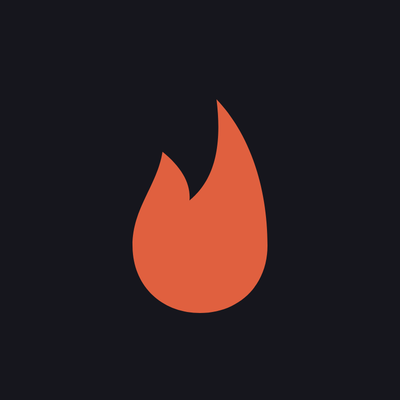
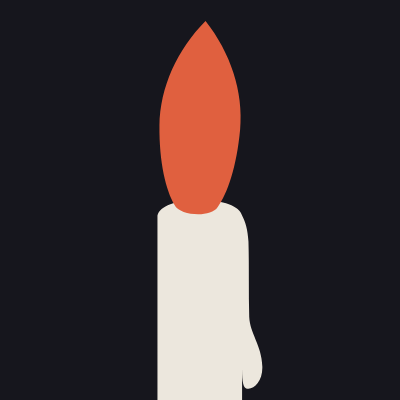
site update 2026-10-20 15:43
Claude-Session: https://claude.ai/code/session_019xwSd8AaEPZGR6L1pyav7d

Changed region(s): [[0.33, 0.06, 0.69, 1.0]]

diff --git a/index.html b/index.html
@@ -37,7 +37,8 @@ header{display:flex;align-items:center;justify-content:space-between;flex-wrap:w
 .word{display:inline-flex;align-items:baseline}
 .word .i{position:relative;display:inline-block}
 .word .i i{position:absolute;left:50%;border-radius:50%;background:var(--core);transform:translateX(-50%)}
-.word .i svg.fl{position:absolute;left:50%;top:.047em;width:.14em;height:.21em;transform:translateX(calc(-50% + .014em));overflow:visible}
+.word .c{position:relative;display:inline-block;width:.238em;height:.87em}
+.word .c svg{position:absolute;left:0;top:0;width:.238em;height:1em;overflow:visible}
 .word{letter-spacing:-.025em}
 nav{display:flex;gap:26px;flex-wrap:wrap;font-family:'IBM Plex Mono';font-size:12px;letter-spacing:2px;text-transform:lowercase}
 .hero{display:flex;flex-wrap:wrap;align-items:center;gap:56px;padding:64px 0 96px}
@@ -86,7 +87,7 @@ footer nav a{color:var(--muted)}footer nav a:hover{color:var(--core)}
 <body>
 <div class="wrap">
 <header>
-  <a class="logo" href="#top" aria-label="fâni home"><span class="word">fân<span class="i">ı<svg class="fl" viewBox="0 0 20 30" aria-hidden="true"><path d="M10 30 C 5 30 1 26.5 1 21 C 1 14 8 11.5 12.2 1.5 C 16.5 6 19 13 19 21 C 19 26.5 15 30 10 30 Z" fill="#E0603F"/></svg></span></span></a>
+  <a class="logo" href="#top" aria-label="fâni home"><span class="word">fân<span class="c"><svg viewBox="0 0 238 1000" aria-hidden="true"><path d="M76.7 870 L76.7 350 C 80 338 100 330 131.7 330 C 163 330 183 338 186.7 350 C 191 358 194 368 195 384 C 196 420 195 450 196 482 C 197 504 212 518 213 546 C 214 566 201 578 192 575 C 187 573 186.7 560 186.7 545 L186.7 870 Z" fill="currentColor"/><g transform="rotate(3 131.7 240)"><path d="M131.7 97 C 166 136 186 186 184 236 C 182 284 172 320 160 338 C 152 352 112 352 104 338 C 92 320 81 284 79 236 C 77 186 97 136 131.7 97 Z" fill="#E0603F"/></g></svg></span></span></a>
   <nav><a href="#story">story</a><a href="#how">how it works</a><a href="#ledger">ledger</a><a href="verdicts.html" style="color:var(--core)">verdicts</a><a href="#roadmap">roadmap</a><a href="#manifesto">manifesto</a><a href="https://x.com/fanidotlive">x</a><a href="https://github.com/fanilive">github</a></nav>
 </header>
 
@@ -103,7 +104,7 @@ footer nav a{color:var(--muted)}footer nav a:hover{color:var(--core)}
     <div class="candle">
       <svg id="candle" width="180" height="288" viewBox="0 0 100 160" role="img" aria-label="fâni candle; the wax level is the wallet">
         <ellipse cx="50" cy="48" rx="30" ry="34" fill="#E0603F" opacity=".08"/>
-        <g id="flame" transform="translate(39,32) scale(1.1)"><path d="M10 30 C 5 30 1 26.5 1 21 C 1 16 4.3 13 5 8.5 C 7.6 10.6 8.8 12.8 8.6 15 C 11 13 13.2 9.5 12.2 1.5 C 16.5 6 19 13 19 21 C 19 26.5 15 30 10 30 Z" fill="#E0603F"/></g>
+        <g id="flame" transform="translate(31.6,16.4) scale(0.14)"><path d="M131.7 97 C 166 136 186 186 184 236 C 182 284 172 320 160 338 C 152 352 112 352 104 338 C 92 320 81 284 79 236 C 77 186 97 136 131.7 97 Z" fill="#E0603F"/></g>
         <line x1="50" y1="66" x2="50" y2="74" stroke="#ECE7DD" stroke-width="2.2" stroke-linecap="round"/>
         <rect x="33" y="74" width="34" height="75" rx="2" fill="none" stroke="#ECE7DD" stroke-width="2.2"/>
         <rect id="wax" x="35" y="96" width="30" height="51" rx="1" fill="#ECE7DD" opacity=".12"/>

diff --git a/verdicts.html b/verdicts.html
@@ -30,7 +30,8 @@ header{display:flex;align-items:center;justify-content:space-between;flex-wrap:w
 .word{display:inline-flex;align-items:baseline}
 .word .i{position:relative;display:inline-block}
 .word .i i{position:absolute;left:50%;border-radius:50%;background:var(--core);transform:translateX(-50%)}
-.word .i svg.fl{position:absolute;left:50%;top:.047em;width:.14em;height:.21em;transform:translateX(calc(-50% + .014em));overflow:visible}
+.word .c{position:relative;display:inline-block;width:.238em;height:.87em}
+.word .c svg{position:absolute;left:0;top:0;width:.238em;height:1em;overflow:visible}
 .word{letter-spacing:-.025em}
 nav{display:flex;gap:26px;flex-wrap:wrap;font-family:'IBM Plex Mono';font-size:12px;letter-spacing:2px;text-transform:lowercase}
 .hero{display:flex;flex-wrap:wrap;align-items:center;gap:56px;padding:64px 0 96px}
@@ -92,7 +93,7 @@ footer nav a{color:var(--muted)}footer nav a:hover{color:var(--core)}
 <body>
 <div class="wrap">
 <header>
-  <a class="logo" href="#top" aria-label="fâni home"><span class="word">fân<span class="i">ı<svg class="fl" viewBox="0 0 20 30" aria-hidden="true"><path d="M10 30 C 5 30 1 26.5 1 21 C 1 14 8 11.5 12.2 1.5 C 16.5 6 19 13 19 21 C 19 26.5 15 30 10 30 Z" fill="#E0603F"/></svg></span></span></a>
+  <a class="logo" href="#top" aria-label="fâni home"><span class="word">fân<span class="c"><svg viewBox="0 0 238 1000" aria-hidden="true"><path d="M76.7 870 L76.7 350 C 80 338 100 330 131.7 330 C 163 330 183 338 186.7 350 C 191 358 194 368 195 384 C 196 420 195 450 196 482 C 197 504 212 518 213 546 C 214 566 201 578 192 575 C 187 573 186.7 560 186.7 545 L186.7 870 Z" fill="currentColor"/><g transform="rotate(3 131.7 240)"><path d="M131.7 97 C 166 136 186 186 184 236 C 182 284 172 320 160 338 C 152 352 112 352 104 338 C 92 320 81 284 79 236 C 77 186 97 136 131.7 97 Z" fill="#E0603F"/></g></svg></span></span></a>
   <nav><a href="index.html#story">story</a><a href="index.html#how">how it works</a><a href="index.html#ledger">ledger</a><a href="verdicts.html" style="color:var(--core)">verdicts</a><a href="index.html#roadmap">roadmap</a><a href="index.html#manifesto">manifesto</a><a href="https://x.com/fanidotlive">x</a><a href="https://github.com/fanilive">github</a></nav>
 </header>
 <div class="hero" style="padding:48px 0 40px">
